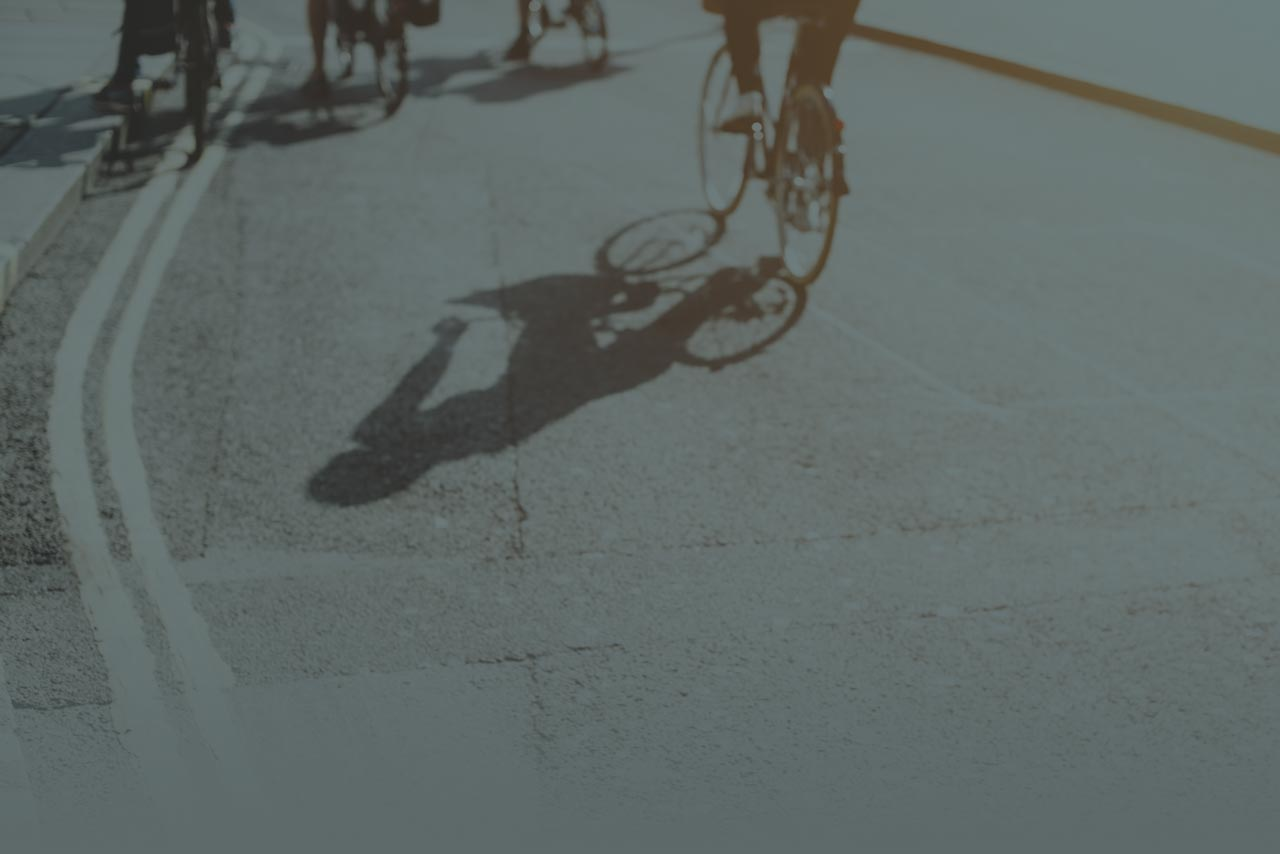
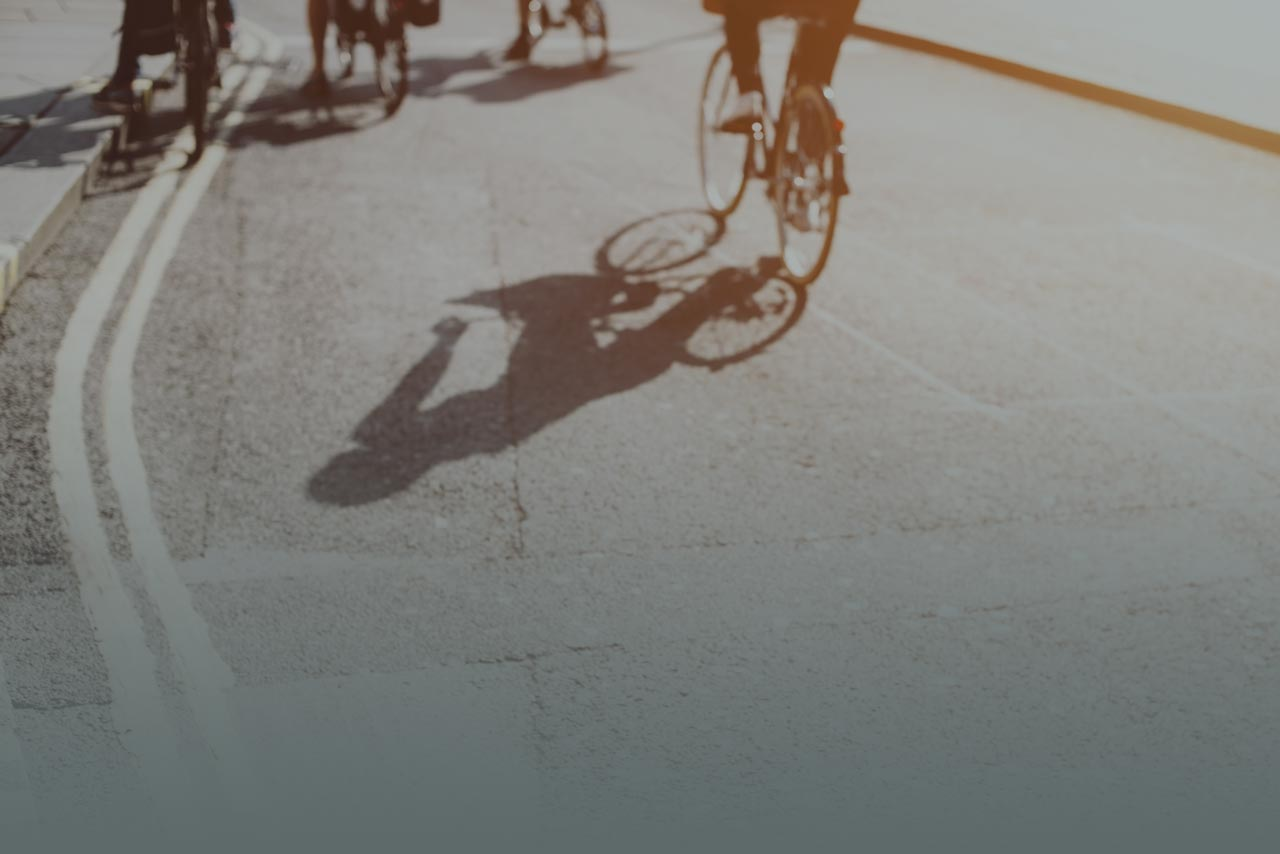
Brighter background images

diff --git a/web/cobrands/smidsy/_colours.scss b/web/cobrands/smidsy/_colours.scss
@@ -5,7 +5,7 @@ $color-primary-blue: #42A7DB;
 $color-neutral-cream: #FCF1C6;
 $color-neutral-raincloud: #DCE7E8;
 $color-neutral-duckegg: #6b9094;
-$color-neutral-slategrey: #5D696A;
+$color-neutral-slategrey: #5D696A; // matches the bottom fade on background-1280x854.jpg
 $color-secondary-blue: #99CED4;
 $color-secondary-aquamarine: #A6D0AE;
 $color-secondary-olive: #AAB674;
@@ -30,9 +30,7 @@ $base_bg: $color-neutral-slategrey;
 $base_fg: #000;
 
 // Background colour of navbar/header above full-screen map.
-// Similar to the semi-transparent grey from map controls in core sprite.png
-// Same opacity (0.9) as body.mappage .content
-$map_nav_bg: rgba(40, 40, 40, 0.9);
+$map_nav_bg: rgba(#000, 0.4);
 
 // Nav link color.
 $nav_fg: #fff;

diff --git a/web/cobrands/smidsy/base.scss b/web/cobrands/smidsy/base.scss
@@ -105,7 +105,7 @@ body.twothirdswidthpage {
   padding: 2em;
 
   h1, p, label, #geolocate_link {
-    text-shadow: 0 1px 1px rgba(0,0,0,0.5);
+    text-shadow: 0 1px 1px rgba(#000, 0.5), 0 0 20px #000;
   }
 
   h1 {
